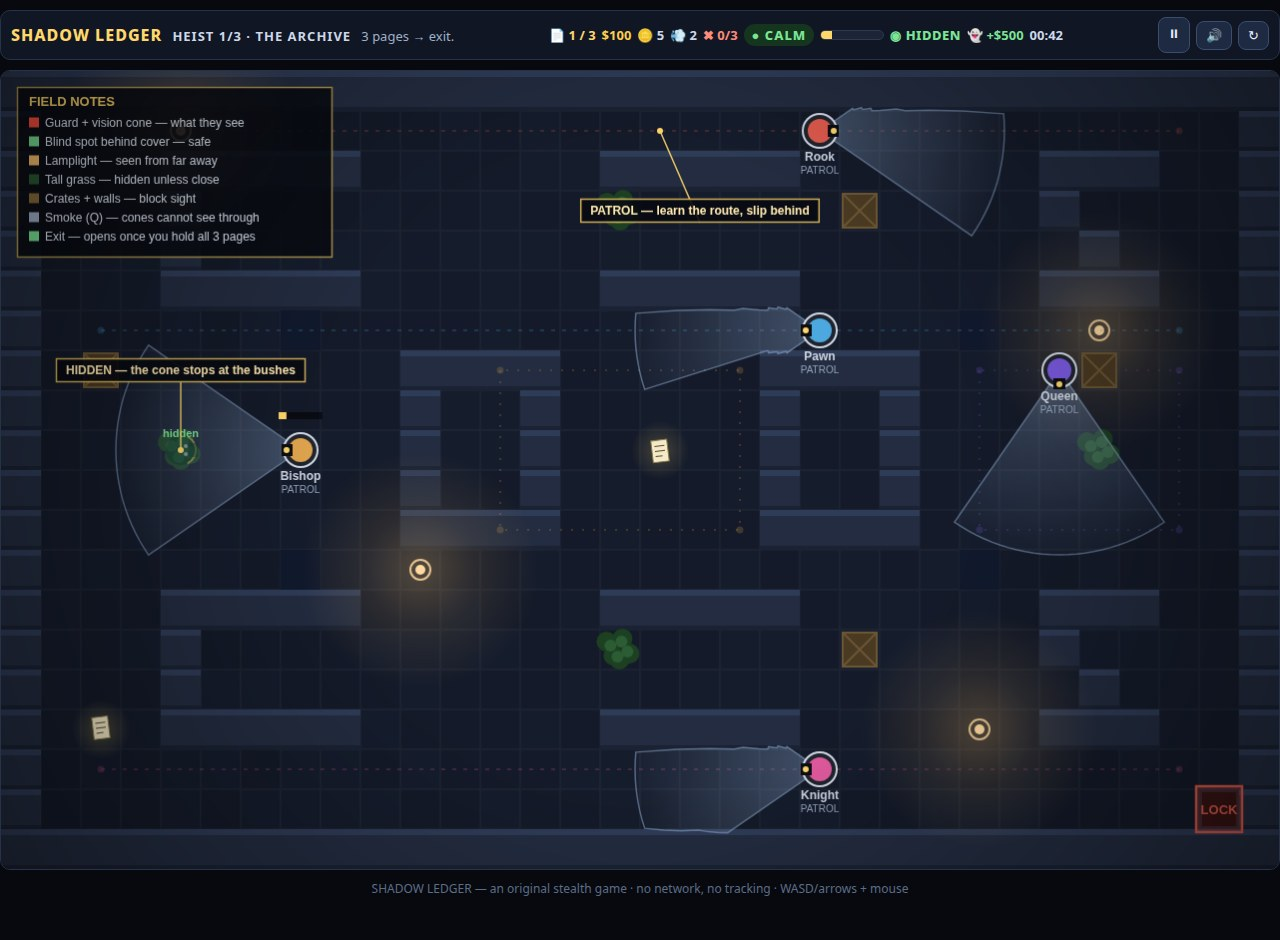
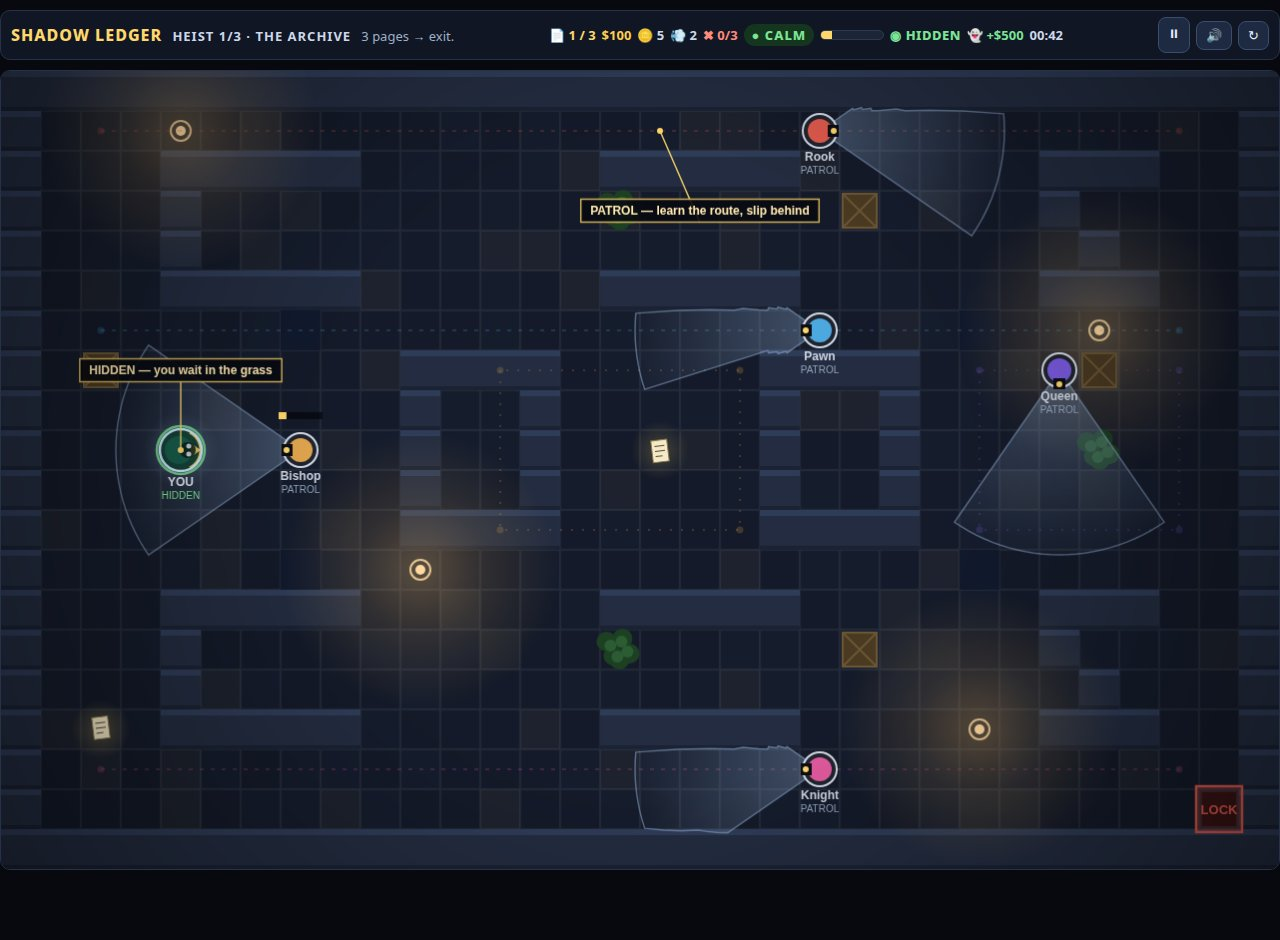
Shadow Ledger v4: visible labeled thief, restaged shots, legend only on cover

diff --git a/game/src/render.js b/game/src/render.js
@@ -38,7 +38,13 @@ export function drawFloor(ctx, palette = DEFAULT_PALETTE) {
       } else {
         ctx.fillStyle = v < 0.5 ? palette.floorA : palette.floorB;
         ctx.fillRect(x, y, TILE, TILE);
-        ctx.strokeStyle = 'rgba(255,255,255,0.03)';
+        // Warm speckle on a few tiles, so the floor reads as stone and
+        // wood rather than flat dark paint.
+        if (v > 0.86) {
+          ctx.fillStyle = 'rgba(255,200,120,0.035)';
+          ctx.fillRect(x, y, TILE, TILE);
+        }
+        ctx.strokeStyle = 'rgba(255,255,255,0.06)';
         ctx.strokeRect(x + 0.5, y + 0.5, TILE - 1, TILE - 1);
       }
       if (t === 'D') {
@@ -287,65 +293,91 @@ export function drawCoinToss(ctx, coin, time) {
 }
 
 export function drawPlayer(ctx, player, time, visibility = 'dim') {
-  // A ring under the thief reads how lit they are: gold in lamplight,
-  // blue in shadow — the lighting that shows what is safe.
-  if (visibility === 'lit') {
-    ctx.strokeStyle = 'rgba(255,215,106,0.55)';
-    ctx.lineWidth = 2;
-    ctx.beginPath();
-    ctx.arc(player.x, player.y, 19, 0, Math.PI * 2);
-    ctx.stroke();
-  } else if (visibility === 'shadow') {
-    ctx.strokeStyle = 'rgba(120,170,255,0.5)';
-    ctx.lineWidth = 2;
-    ctx.beginPath();
-    ctx.arc(player.x, player.y, 19, 0, Math.PI * 2);
-    ctx.stroke();
-  }
+  // The thief must be findable at a glance: a soft glow behind them, a
+  // bright rim, and a YOU tag like the guards' name tags. The ring under
+  // the thief reads how lit they are in every state — gold in lamplight,
+  // blue in shadow, soft white in dim light, green while hidden.
+  const hidden = player.hiddenInBush;
+  const ringColor = hidden ? 'rgba(123,228,149,0.85)'
+    : visibility === 'lit' ? 'rgba(255,215,106,0.7)'
+    : visibility === 'shadow' ? 'rgba(120,170,255,0.65)'
+    : 'rgba(232,238,251,0.4)';
+  const glow = ctx.createRadialGradient(player.x, player.y, 4, player.x, player.y, 38);
+  glow.addColorStop(0, 'rgba(160,220,255,0.20)');
+  glow.addColorStop(1, 'rgba(160,220,255,0)');
+  ctx.fillStyle = glow;
+  ctx.fillRect(player.x - 38, player.y - 38, 76, 76);
+  ctx.strokeStyle = ringColor;
+  ctx.lineWidth = 2.5;
+  ctx.beginPath();
+  ctx.arc(player.x, player.y, 24, 0, Math.PI * 2);
+  ctx.stroke();
   // Noise ring while walking loud.
   if (player.moving && !player.sneaking) {
     const phase = (time * 2.4) % 1;
     ctx.strokeStyle = 'rgba(255,255,255,' + (0.22 * (1 - phase)) + ')';
     ctx.lineWidth = 1.5;
     ctx.beginPath();
-    ctx.arc(player.x, player.y, 14 + phase * 34, 0, Math.PI * 2);
+    ctx.arc(player.x, player.y, 18 + phase * 34, 0, Math.PI * 2);
     ctx.stroke();
   }
-  const hidden = player.hiddenInBush;
   ctx.save();
-  ctx.globalAlpha = hidden ? 0.45 : 1;
+  ctx.globalAlpha = hidden ? 0.85 : 1;
   ctx.translate(player.x, player.y);
   ctx.rotate(player.angle);
-  // Hooded cloak: dark teal body, gold trim, face shadow.
+  // Hooded cloak: dark teal body with a lighter hood, gold trim, and a
+  // facing wedge so the direction the thief looks reads at a glance.
   ctx.fillStyle = '#0f3d33';
   ctx.beginPath();
-  ctx.arc(0, 0, 15, 0, Math.PI * 2);
+  ctx.arc(0, 0, 20, 0, Math.PI * 2);
+  ctx.fill();
+  ctx.fillStyle = '#17604f';
+  ctx.beginPath();
+  ctx.arc(-2, 0, 14, 0, Math.PI * 2);
   ctx.fill();
   ctx.strokeStyle = '#ffd76a';
-  ctx.lineWidth = 2;
+  ctx.lineWidth = 3;
   ctx.beginPath();
-  ctx.arc(0, 0, 15, -1.1, 1.1);
+  ctx.arc(0, 0, 20, -1.1, 1.1);
   ctx.stroke();
-  ctx.fillStyle = '#123b32';
-  ctx.fillRect(8, -7, 9, 14);
+  ctx.fillStyle = '#ffd76a';
+  ctx.beginPath();
+  ctx.moveTo(20, 0);
+  ctx.lineTo(10, -7);
+  ctx.lineTo(10, 7);
+  ctx.closePath();
+  ctx.fill();
+  // Face shadow with two bright eyes.
+  ctx.fillStyle = '#0a1f1a';
+  ctx.beginPath();
+  ctx.arc(7, 0, 8, 0, Math.PI * 2);
+  ctx.fill();
   ctx.fillStyle = '#e8eefb';
   ctx.beginPath();
-  ctx.arc(5, -4, 2, 0, Math.PI * 2);
-  ctx.arc(5, 4, 2, 0, Math.PI * 2);
+  ctx.arc(8, -4, 2.5, 0, Math.PI * 2);
+  ctx.arc(8, 4, 2.5, 0, Math.PI * 2);
   ctx.fill();
   ctx.restore();
-  if (player.sneaking) {
-    ctx.fillStyle = 'rgba(223,230,242,0.8)';
-    ctx.font = '11px sans-serif';
-    ctx.textAlign = 'center';
-    ctx.fillText('sneaking', player.x, player.y + 22);
-  }
-  if (hidden) {
-    ctx.fillStyle = '#7be495';
-    ctx.font = 'bold 11px sans-serif';
-    ctx.textAlign = 'center';
-    ctx.fillText('hidden', player.x, player.y - 22);
-  }
+  // Bright rim, drawn at full strength even in a bush: the thief is hidden
+  // from the guards, never from the reader.
+  ctx.strokeStyle = 'rgba(207,238,255,0.95)';
+  ctx.lineWidth = 2.5;
+  ctx.beginPath();
+  ctx.arc(player.x, player.y, 21, 0, Math.PI * 2);
+  ctx.stroke();
+  // YOU tag + state, mirroring the guards' name + state tags.
+  const stateWord = hidden ? 'HIDDEN' : player.sneaking ? 'SNEAKING'
+    : visibility === 'lit' ? 'IN LIGHT' : visibility === 'shadow' ? 'IN SHADOW' : 'DIM';
+  const stateColor = hidden ? '#7be495' : visibility === 'lit' ? '#ffd76a'
+    : visibility === 'shadow' ? '#8fb8ff' : 'rgba(159,176,201,0.95)';
+  ctx.fillStyle = 'rgba(232,238,251,0.95)';
+  ctx.font = 'bold 12px sans-serif';
+  ctx.textAlign = 'center';
+  ctx.textBaseline = 'top';
+  ctx.fillText('YOU', player.x, player.y + 27);
+  ctx.fillStyle = stateColor;
+  ctx.font = '10px sans-serif';
+  ctx.fillText(stateWord, player.x, player.y + 41);
 }
 
 // The smoke pellet: a small pellet in flight, then a grey-blue cloud no

diff --git a/game/src/shots.js b/game/src/shots.js
@@ -29,20 +29,22 @@ export function stageShot(game, name) {
 
   if (name === 'overview') {
     // Cover: the Vault at a glance — 7 guards, 2 cameras, gold, a coin toss
-    // pulling a guard away, 2 pages in hand, exit still locked.
+    // pulling a guard away, 2 pages in hand, exit still locked. The thief
+    // stands at a cone edge, labeled YOU, so the reader finds them at once.
     game.loadLevel(2);
     game.fieldNotes = true;
+    game.legend = true; // the cover alone carries the FIELD NOTES card
     game.callouts = [
       callout(15, 8, 15, 10, 'COIN — the guard walks over to look'),
       callout(25, 4, 27, 6, 'LAMPLIGHT — seen from far away'),
-      callout(4, 7, 2, 9, 'BUSH — hidden unless close'),
       callout(26, 16, 30, 18, 'EXIT — opens once you hold all 3 pages'),
+      callout(8, 8, 9, 11, 'YOU — coin distracts Bishop'),
     ];
     game.state = 'playing';
     game.score = 325;
     game.coins = 4;
-    placeAt(game.player, 8, 10);
-    game.player.angle = -Math.PI / 2;
+    placeAt(game.player, 9, 11);
+    game.player.angle = 0;
     game.level.ledgers[0].taken = true;
     game.level.ledgers[1].taken = true;
     game.pagesFound = 2;
@@ -75,9 +77,11 @@ export function stageShot(game, name) {
     game.coin.targetY = 10 * TILE + TILE / 2;
   } else if (name === 'cone') {
     // A Gallery camera's cone has caught the thief — but a smoke pellet
-    // blooms between them, and the cone cannot see through it.
+    // blooms between them, and the cone cannot see through it. The thief
+    // stands clear of the cloud, labeled YOU, so the reader finds them.
     game.loadLevel(1);
     game.fieldNotes = true;
+    game.legend = false; // small cells show pure gameplay, no legend card
     game.callouts = [
       callout(17, 4, 8, 2, 'CAMERA — its alarm calls the nearest guard'),
       callout(10, 5, 10, 2, 'SMOKE — the cone cannot see through it'),
@@ -90,7 +94,7 @@ export function stageShot(game, name) {
     game.state = 'playing';
     game.score = 100;
     game.coins = 5;
-    placeAt(game.player, 12, 2);
+    placeAt(game.player, 13, 2);
     game.player.angle = Math.PI;
     game.player.sneaking = true;
     game.level.ledgers[0].taken = true;
@@ -118,10 +122,13 @@ export function stageShot(game, name) {
     placeAt(sage, 20, 12); sage.angle = Math.PI;
   } else if (name === 'hide') {
     // Hidden in a bush in the Archive while a guard walks past, almost unnoticed.
+    // The thief keeps a bright rim and a YOU tag inside the grass, so the
+    // reader finds them where the guard cannot.
     game.loadLevel(0);
     game.fieldNotes = true;
+    game.legend = false; // small cells show pure gameplay, no legend card
     game.callouts = [
-      callout(4, 7, 4, 9, 'HIDDEN — the cone stops at the bushes'),
+      callout(4, 7, 4, 9, 'HIDDEN — you wait in the grass'),
       callout(17, 3, 16, 1, 'PATROL — learn the route, slip behind'),
     ];
     game.state = 'playing';
@@ -146,12 +153,15 @@ export function stageShot(game, name) {
     placeAt(pawn, 20, 6); pawn.angle = Math.PI;
   } else if (name === 'exit') {
     // All three pages stolen in the Vault, exit open, one last guard between
-    // the thief and freedom.
+    // the thief and freedom. The thief stands one step from the green EXIT,
+    // labeled YOU.
     game.loadLevel(2);
     game.fieldNotes = true;
+    game.legend = false; // small cells show pure gameplay, no legend card
     game.callouts = [
-      callout(25, 16, 30, 18, 'EXIT OPEN — reach it unseen'),
+      callout(27, 14, 30, 18, 'EXIT OPEN — reach it unseen'),
       callout(20, 14, 20, 17, 'GHOST +$500 — finish without being caught'),
+      callout(22, 15, 25, 18, 'YOU — one step from freedom'),
     ];
     game.state = 'playing';
     game.score = 450;

diff --git a/game/src/main.js b/game/src/main.js
@@ -75,6 +75,7 @@ export function createGame() {
     smoke: new SmokePellet(),
     smokeCount: SMOKE_PER_LEVEL,
     fieldNotes: false, // H toggles the legend, patrol routes and callouts
+    legend: true, // the FIELD NOTES card itself; staged shots may hide it
     callouts: [], // staged-scene annotations {x, y, tx, ty, text}
     particles: [],
     state: 'menu', // menu | playing | paused | levelclear | won | lost
@@ -102,6 +103,7 @@ export function createGame() {
       this.smoke = new SmokePellet();
       this.smokeCount = SMOKE_PER_LEVEL;
       this.fieldNotes = false;
+      this.legend = true;
       this.callouts = [];
       this.particles.length = 0;
       this.pagesFound = 0;
@@ -345,7 +347,7 @@ export function createGame() {
       drawPlayer(ctx, this.player, this.time, visibilityAt(this.level, this.player.x, this.player.y));
       drawParticles(ctx, this.particles);
       if (this.fieldNotes) {
-        drawFieldNotes(ctx);
+        if (this.legend) drawFieldNotes(ctx);
         drawCallouts(ctx, this.callouts);
       }
       drawVignette(ctx);
@@ -427,6 +429,7 @@ window.addEventListener('keydown', (e) => {
   else if (e.code === 'KeyH') {
     // Field notes: the legend, patrol routes and callouts.
     game.fieldNotes = !game.fieldNotes;
+    game.legend = game.fieldNotes;
   } else if (e.code === 'KeyQ') {
     // Throw a smoke pellet ahead of you: cones cannot see through smoke.
     game.throwSmokeAt(
@@ -683,6 +686,15 @@ function runSelfTest() {
     g.reset();
     if (!stageShot(g, 'overview')) return false;
     return g.fieldNotes === true && g.callouts.length >= 3;
+  });
+  check('only the cover carries the legend card; other shots hide it', () => {
+    const g = createGame();
+    g.reset();
+    if (!stageShot(g, 'overview') || g.legend !== true) return false;
+    if (!stageShot(g, 'cone') || g.legend !== false) return false;
+    if (!stageShot(g, 'hide') || g.legend !== false) return false;
+    if (!stageShot(g, 'exit') || g.legend !== false) return false;
+    return g.fieldNotes === true; // patrol routes stay on in every shot
   });
   const passed = results.filter((r) => r.pass).length;
   const el = document.getElementById('selftest');

diff --git a/main.ts b/main.ts
@@ -4,10 +4,14 @@
 // /output/dossier.json with the vendored make.fun library, exactly as the
 // kit's starter does. It never touches the network and writes the same
 // bytes on every run, so the grader's two runs agree.
+// v4: the thief is drawn big and tagged YOU, the staged shots put the
+// player in the frame, and only the cover carries the legend card.
 import { cpSync, existsSync, mkdirSync, writeFileSync } from 'node:fs';
 import { join } from 'node:path';
 import { fileURLToPath } from 'node:url';
 import { buildDossier } from './vendor/makefun-game.ts';
+
+const VERSION = 'v4';
 
 const here = fileURLToPath(new URL('.', import.meta.url));
 const out = process.env.MAKEFUN_OUTPUT_DIR ?? '/output';
@@ -30,4 +34,4 @@ const dossier = buildDossier(out, {
   game_path_max_bytes: 1000,
 });
 writeFileSync(join(out, 'dossier.json'), dossier);
-console.log('shadow-ledger: wrote ' + out + ' (dossier ' + dossier.length + ' bytes)');
+console.log('shadow-ledger ' + VERSION + ': wrote ' + out + ' (dossier ' + dossier.length + ' bytes)');

diff --git a/game/src/lighting.js b/game/src/lighting.js
@@ -3,7 +3,7 @@
 // visibility word and the ring under the player both read this.
 import { tileKindAtPx } from './level.js';
 
-const LAMP_GLOW_RADIUS = 120;
+const LAMP_GLOW_RADIUS = 140;
 const LIT_RADIUS = 95;
 
 // Warm lamp pools: light that marks where you are easy to see.
@@ -11,8 +11,8 @@ export function drawLamps(ctx, level, time) {
   for (const lamp of level.lamps) {
     const flicker = 0.85 + Math.sin(time * 2.1 + lamp.x * 0.05) * 0.06;
     const glow = ctx.createRadialGradient(lamp.x, lamp.y, 4, lamp.x, lamp.y, LAMP_GLOW_RADIUS);
-    glow.addColorStop(0, 'rgba(255,196,110,' + (0.3 * flicker) + ')');
-    glow.addColorStop(0.45, 'rgba(255,196,110,' + (0.12 * flicker) + ')');
+    glow.addColorStop(0, 'rgba(255,196,110,' + (0.34 * flicker) + ')');
+    glow.addColorStop(0.45, 'rgba(255,196,110,' + (0.14 * flicker) + ')');
     glow.addColorStop(1, 'rgba(255,196,110,0)');
     ctx.fillStyle = glow;
     ctx.fillRect(lamp.x - LAMP_GLOW_RADIUS, lamp.y - LAMP_GLOW_RADIUS, LAMP_GLOW_RADIUS * 2, LAMP_GLOW_RADIUS * 2);

diff --git a/game/style.css b/game/style.css
@@ -8,7 +8,7 @@ body {
   display: flex;
   justify-content: center;
 }
-#wrap { width: 1280px; max-width: 100vw; padding: 10px 0 14px; }
+#wrap { width: 1280px; max-width: 100vw; padding: 10px 0 42px; }
 #hud {
   display: flex; align-items: center; justify-content: space-between; gap: 8px;
   background: #101623; border: 1px solid #263248; border-radius: 10px;
@@ -77,4 +77,3 @@ body {
 .lose-title { color: #ff8a7a !important; }
 #win-rank { font-weight: 800; color: #ffd76a; font-size: 18px; }
 .hidden { display: none !important; }
-#foot { margin-top: 10px; text-align: center; color: #5d6d88; font-size: 12px; }

diff --git a/game/index.html b/game/index.html
@@ -82,7 +82,6 @@
       </div>
     </div>
   </div>
-  <div id="foot">SHADOW LEDGER — an original stealth game · no network, no tracking · WASD/arrows + mouse</div>
 </div>
 <div id="selftest" style="display:none"></div>
 <div id="errors" style="display:none"></div>

diff --git a/README.md b/README.md
@@ -14,6 +14,22 @@ Vault — steal the **3 ledger pages** on each floor, grab the **gold**, then
 reach the **green exit**. Finish a heist without being caught for a
 **+$500 ghost bonus**.
 
+### v4 — the thief you can find
+
+- **A thief you can find at a glance**: bigger hooded figure with a bright
+  rim, a facing wedge, a glow and a visibility ring in every light
+  (gold / blue / soft white / green while hidden) — plus a `YOU` tag with
+  a state line, mirroring the guards' name tags. Hidden in a bush the
+  thief keeps the rim and the tag: hidden from the guards, never from you
+- **Staged shots put the player in the frame**: the cover thief watches
+  the coin pull Bishop away; the smoke shot shows the thief clear of the
+  cloud; the hide shot keeps the thief visible in the grass; the exit
+  shot stands the thief one step from freedom
+- **Legend only on the cover**: the small screenshots show pure gameplay —
+  patrol routes and callouts stay, the FIELD NOTES card does not
+- **Warmer floors**: stronger lamp pools, a brighter tile grid, warm
+  speckle on the stone — the Archive no longer reads as empty dark floor
+
 ### v3 — built to be read at a glance
 
 - **Vision cones clipped by walls and crates**: every cone is a fan of rays
